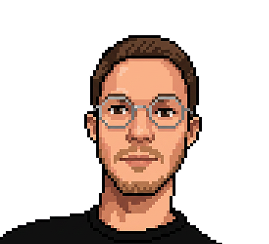
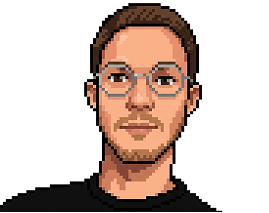
modif main to accueil, activite to ressources, page a propos card personnage modifié et prennent tout l'ecran

Changed region(s): [[0.0, 0.0, 0.8327, 1.0]]

diff --git a/src/Apropos.vue b/src/Apropos.vue
@@ -13,20 +13,20 @@ import killianCardImg from './assets/killian.png'
 
 const members = [
   {
-    name: 'Vincent Grange',
-    roleTag: 'Formateur',
+    name: 'Vincent',
+    roleTag: 'Formateur en IA',
     hasPortfolio: false,
     portfolioUrl: '#',
     linkedinUrl: 'https://www.linkedin.com/in/vincent-grange/',
     color: 'bg-[#FB8C32]',
-    tagColor: 'bg-[#F66074]',
+    tagColor: 'bg-[#774115]',
     avatar: vincentImg,
     cardAvatar: vincentCardImg,
     bio: "Ceci est un texte d'exemple, écrit simplement pour illustrer à quoi peut ressembler un passage un peu plus long. Il ne raconte rien de particulier : son seul but est d'occuper l'espace et de montrer comment les phrases peuvent s'enchaîner les unes après les autres pour former un paragraphe cohérent.",
   },
   {
-    name: 'Weiss Romain',
-    roleTag: 'Designer',
+    name: 'Romain',
+    roleTag: 'Designer UX/UI',
     hasPortfolio: false,
     portfolioUrl: '#',
     linkedinUrl: 'https://www.linkedin.com/in/romain-weiss-66820b395/',
@@ -37,8 +37,8 @@ const members = [
     bio: "Je me suis occupé de désigner le site sur lequel vous êtes en train de naviguer, j'ai réfléchi en particulier à l'harmonie visuelle et technique du projet pour que vous puissiez en profiter de la meilleure des manières. C'est également grâce à moi et Elvan que tous l'univers créatif de ce projet est né pour vous faire découvrir l'IA générative d'une manière inédite.",
   },
   {
-    name: 'Kemence Elvan',
-    roleTag: 'Designer',
+    name: 'Elvan',
+    roleTag: 'Directeur artistique',
     hasPortfolio: false,
     portfolioUrl: '#',
     linkedinUrl: 'https://www.linkedin.com/in/elvan-kemence/',
@@ -49,7 +49,7 @@ const members = [
     bio: 'Je me suis occupé de toute la direction artistique du projet : création du logo, choix des couleurs et des typographies, ainsi que la conception des designs du site, notamment la page d’accueil et les éléments liés aux activités. J’ai travaillé à donner une identité visuelle cohérente et accessible pour que l’expérience soit claire pour tout le monde.',
   },
   {
-    name: 'Dumoulin Killian',
+    name: 'Killian',
     roleTag: 'Développeur web',
     hasPortfolio: true,
     portfolioUrl: 'https://jillian-973.github.io/Dev_Portfolio/',
@@ -69,69 +69,44 @@ const members = [
       <Header />
     </header>
 
-    <main class="flex-1 px-4 sm:px-8 py-10 sm:py-16">
-      <h1 class="text-3xl sm:text-5xl font-bold text-white text-center mb-12 sm:mb-20">
-        L'équipe derrière Mésotès
-      </h1>
+    <main class="flex-1 px-4 sm:px-8">
+      <!-- Cartes personnages : occupe tout l'écran, le reste se découvre au scroll -->
+      <section
+        class="min-h-screen flex flex-col items-center justify-center gap-10 sm:gap-16 py-10"
+      >
+        <h1 class="text-3xl sm:text-5xl font-bold text-white text-center">L'équipe S-1</h1>
 
-      <!-- Cartes personnages -->
-      <div class="flex flex-wrap justify-center gap-6 sm:gap-8 mb-20 sm:mb-28">
-        <div
-          v-for="member in members"
-          :key="member.name"
-          class="relative w-48 sm:w-56 rounded-3xl border-4 border-white shadow-xl overflow-hidden flex flex-col items-center pt-5 pb-0 transition-transform duration-300 ease-out hover:scale-110 hover:z-10 hover:shadow-2xl"
-          :class="member.color"
-        >
-          <h2 class="text-lg sm:text-xl font-bold text-white text-center px-3 mb-3">
-            {{ member.name }}
-          </h2>
-
-          <div class="flex items-center gap-2 mb-4">
-            <span
-              class="text-white text-xs font-bold px-3 py-1 rounded-full"
-              :class="member.tagColor"
-            >
-              {{ member.roleTag }}
-            </span>
-            <a
-              v-if="member.hasPortfolio"
-              :href="member.portfolioUrl"
-              target="_blank"
-              rel="noopener noreferrer"
-              class="text-white text-xs font-bold px-3 py-1 rounded-full opacity-90 hover:opacity-100 transition-opacity"
-              :class="member.tagColor"
-            >
-              portfolio
-            </a>
-            <span
-              v-else
-              class="text-white/80 text-xs font-bold px-3 py-1 rounded-full"
-              :class="member.tagColor"
-            >
-              non-portfolio
-            </span>
-          </div>
-
-          <a
-            :href="member.linkedinUrl"
-            target="_blank"
-            rel="noopener noreferrer"
-            aria-label="Profil LinkedIn"
-            class="w-8 h-8 mb-4"
+        <div class="flex flex-wrap justify-center items-center gap-8 sm:gap-10">
+          <div
+            v-for="member in members"
+            :key="member.name"
+            class="relative w-56 sm:w-64 md:w-72 rounded-3xl border-4 border-white shadow-xl overflow-hidden flex flex-col items-center pt-6 pb-0 transition-transform duration-300 ease-out hover:scale-110 hover:z-10 hover:shadow-2xl"
+            :class="member.color"
           >
-            <LinkedInIcon />
-          </a>
+            <h2 class="text-xl sm:text-2xl md:text-3xl font-bold text-white text-center px-3 mb-3">
+              {{ member.name }}
+            </h2>
 
-          <img
-            :src="member.cardAvatar"
-            :alt="`Portrait de ${member.name}`"
-            class="w-full h-44 sm:h-52 object-cover object-top"
-          />
+            <div class="flex items-center gap-2 mb-4">
+              <span
+                class="text-white text-xs sm:text-sm font-bold px-3 py-1 rounded-full"
+                :class="member.tagColor"
+              >
+                {{ member.roleTag }}
+              </span>
+            </div>
+
+            <img
+              :src="member.cardAvatar"
+              :alt="`Portrait de ${member.name}`"
+              class="w-full h-52 sm:h-60 md:h-72 object-cover object-top"
+            />
+          </div>
         </div>
-      </div>
+      </section>
 
       <!-- Présentations -->
-      <div class="max-w-4xl mx-auto flex flex-col gap-12 sm:gap-16">
+      <div class="max-w-4xl mx-auto flex flex-col gap-12 sm:gap-16 py-10 sm:py-16">
         <div
           v-for="(member, index) in members"
           :key="`bio-${member.name}`"

diff --git a/src/components/footer.vue b/src/components/footer.vue
@@ -20,8 +20,8 @@ const dolfiLogoUrl =
       </div>
 
       <nav class="flex gap-8 text-sm text-white/60">
-        <a href="/main" class="hover:text-white transition-colors">Accueil</a>
-        <a href="/activite" class="hover:text-white transition-colors">Ressources</a>
+        <a href="/accueil" class="hover:text-white transition-colors">Accueil</a>
+        <a href="/ressources" class="hover:text-white transition-colors">Ressources</a>
         <a href="/a-propos" class="hover:text-white transition-colors">À propos</a>
       </nav>
     </div>
@@ -41,10 +41,14 @@ const dolfiLogoUrl =
       class="max-w-6xl mx-auto px-6 py-4 border-t border-white/10 flex flex-col sm:flex-row items-center justify-between gap-3"
     >
       <div class="flex gap-6 text-xs text-white/40">
-        <a href="#" class="hover:text-white/70 transition-colors">CGU</a>
-        <a href="#" class="hover:text-white/70 transition-colors">Mentions légales</a>
+        <a href="#" class="hover:text-white/70 transition-colors"
+          >Conditions Générales d'Utilisation</a
+        >
       </div>
-      <p class="text-white/30 text-xs">© 2026 Mésotès — Tous droits réservés</p>
+      <p class="text-white/30 text-xs">Mésotès — Tous droits réservés</p>
+      <a href="#" class="text-white/30 text-xs hover:text-white/70 transition-colors"
+        >Mentions légales</a
+      >
     </div>
   </footer>
 </template>

diff --git a/src/App.vue b/src/App.vue
@@ -22,14 +22,14 @@ const activites = [
     image: projecteur2Img,
     gradient:
       'linear-gradient(to bottom right, var(--color-synthwave-magenta), var(--color-electric-violet))',
-    url: '/activite.html#/projecteur',
+    url: '/ressources.html#/projecteur',
   },
   {
     id: 'decorateur',
     title: "Décorateur d'intérieur",
     image: decorateur2Img,
     gradient: 'linear-gradient(to bottom right, var(--color-electric-violet), var(--color-blue))',
-    url: '/activite.html#/decorateur',
+    url: '/ressources.html#/decorateur',
   },
   {
     id: 'disque-d-or',
@@ -37,14 +37,14 @@ const activites = [
     image: dj2Img,
     gradient:
       'linear-gradient(to bottom right, var(--color-neon-sunset), var(--color-synthwave-magenta))',
-    url: '/activite.html#/disque-d-or',
+    url: '/ressources.html#/disque-d-or',
   },
   {
     id: 'galerie',
     title: "Galerie d'image",
     image: galerieImg,
     gradient: 'linear-gradient(to bottom right, var(--color-retrogrid-black), #1a1040)',
-    url: '/activite.html#/galerie',
+    url: '/ressources.html#/galerie',
   },
 ]
 </script>

diff --git a/src/components/header.vue b/src/components/header.vue
@@ -1,6 +1,6 @@
 <template>
   <nav class="py-4 pl-6 pr-6 sm:pr-52 flex items-center justify-between">
-    <a href="/main">
+    <a href="/accueil">
       <img src="../assets/logo.png" alt="Mésotès" class="h-26 sm:h-30" />
     </a>
 
@@ -8,12 +8,12 @@
       <li
         class="h-8 px-3 sm:px-10 md:px-14 rounded-xl border-2 border-orange-400 bg-orange-100/70 font-bold text-black text-xs sm:text-base leading-none flex items-center justify-center backdrop-blur-sm transition-all duration-300 hover:scale-105 shadow-[0_0_18px_4px_rgba(251,146,60,0.7)] hover:shadow-[0_0_30px_8px_rgba(251,146,60,0.95)]"
       >
-        <a href="/main">Accueil</a>
+        <a href="/accueil">Accueil</a>
       </li>
       <li
         class="h-8 px-3 sm:px-10 md:px-14 rounded-xl border-2 border-pink-400 bg-pink-100/70 font-bold text-black text-xs sm:text-base leading-none flex items-center justify-center backdrop-blur-sm transition-all duration-300 hover:scale-105 shadow-[0_0_18px_4px_rgba(239,60,173,0.7)] hover:shadow-[0_0_30px_8px_rgba(239,60,173,0.95)]"
       >
-        <a href="/activite">Ressources</a>
+        <a href="/ressources">Ressources</a>
       </li>
       <li
         class="h-8 px-3 sm:px-10 md:px-14 rounded-xl border-2 border-fuchsia-400 bg-fuchsia-100/70 text-black font-bold text-xs sm:text-base leading-none flex items-center justify-center backdrop-blur-sm transition-all duration-300 hover:scale-105 shadow-[0_0_18px_4px_rgba(217,70,239,0.7)] hover:shadow-[0_0_30px_8px_rgba(217,70,239,0.95)]"

diff --git a/vite.config.js b/vite.config.js
@@ -17,8 +17,8 @@ export default defineConfig({
   build: {
     rollupOptions: {
       input: {
-        main: 'index.html',
-        activite: 'activite.html',
+        accueil: 'index.html',
+        ressource: 'ressources.html',
         'a-propos': 'a-propos.html',
       },
     },